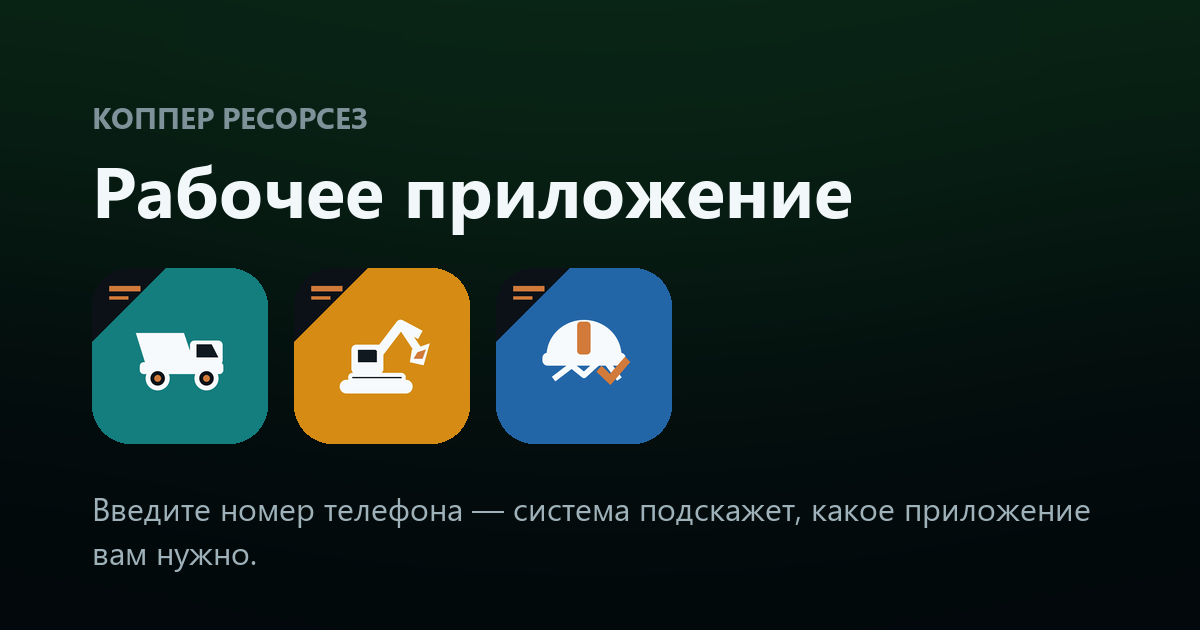
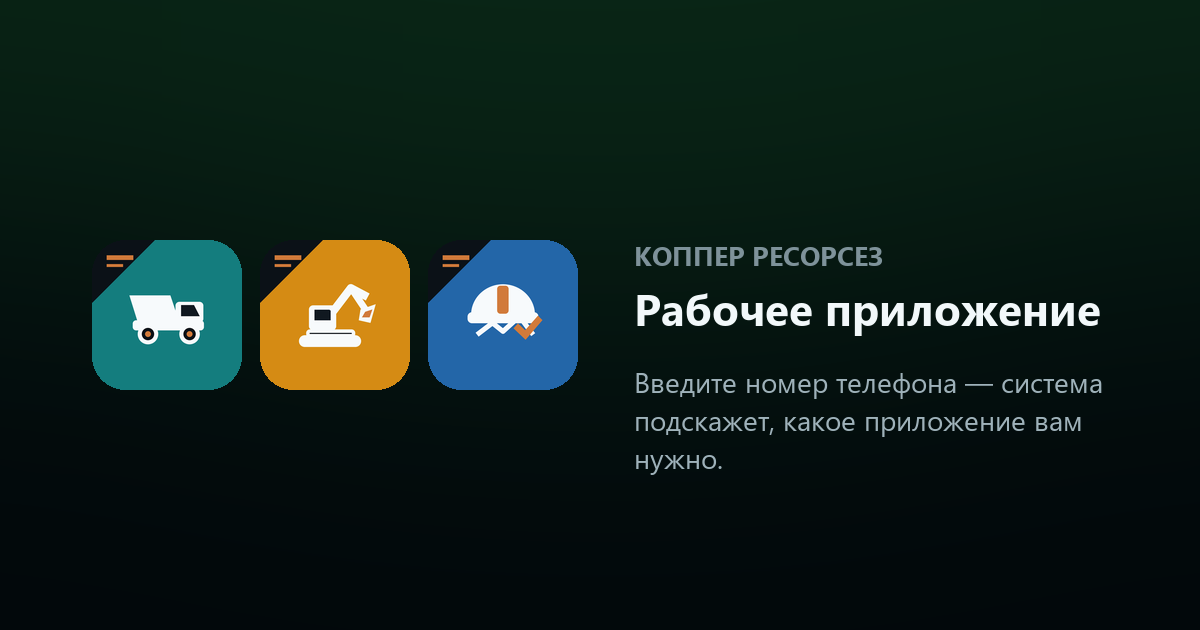
Карточка общей ссылки: содержимое в среднюю полосу
MAX обрезает превью по высоте: у раскладки сверху вниз срезало и марку
сверху, и подпись снизу. Переложили как на карточках ролей — значки слева,
текст справа, всё по вертикали в середине. При обрезке уцелевает целиком.

diff --git a/СИСТЕМА_MVP/backend/tools/generate_share_cards.py b/СИСТЕМА_MVP/backend/tools/generate_share_cards.py
@@ -170,32 +170,37 @@ def build_card(card: dict) -> Path:
 
 
 def build_start_card(card: dict) -> Path:
-    """Раскладка сверху вниз: марка, заголовок, значки, подпись.
+    """Значки слева, текст справа — и всё по вертикали в середине.
 
-    Значки ставим ниже заголовка фиксированно — при вычислении «по центру»
-    заголовок налезал на них.
+    Мессенджер обрезает картинку сверху и снизу, поэтому раскладка сверху вниз
+    не годилась: срезало и марку, и подпись. В центральной полосе уцелевает всё.
     """
     accent = card['accent']
     image = glow_layer(accent)
     draw = ImageDraw.Draw(image)
 
-    text_x = 92
-    limit = WIDTH - text_x - 92
-    draw.text((text_x, 96), COMPANY, font=pick_font(FONT_CANDIDATES_BOLD, 30), fill=(126, 146, 154))
-    draw.text((text_x, 140), card['title'], font=fit_font(draw, card['title'], limit, 72), fill=(242, 248, 250))
-
-    size = 176
-    gap = 26
-    x, y = text_x, 268
+    size = 150
+    gap = 18
+    icons_x = 92
+    icons_width = len(card['icons']) * size + (len(card['icons']) - 1) * gap
+    icons_y = (HEIGHT - size) // 2
+    x = icons_x
     for name in card['icons']:
         icon_path = ICON_DIR / name
         if not icon_path.exists():
             raise SystemExit(f'Нет значка {icon_path}')
         icon = rounded(Image.open(icon_path).convert('RGBA').resize((size, size), Image.LANCZOS))
-        image.paste(icon, (x, y), icon)
+        image.paste(icon, (x, icons_y), icon)
         x += size + gap
 
-    lead_font = pick_font(FONT_CANDIDATES_REGULAR, 32)
+    text_x = icons_x + icons_width + 56
+    limit = WIDTH - text_x - 80
+    title_font = fit_font(draw, card['title'], limit, 62)
+    lead_font = pick_font(FONT_CANDIDATES_REGULAR, 28)
+
+    draw.text((text_x, 236), COMPANY, font=pick_font(FONT_CANDIDATES_BOLD, 27), fill=(126, 146, 154))
+    draw.text((text_x, 278), card['title'], font=title_font, fill=(242, 248, 250))
+
     words = card['lead'].split(' ')
     line, lines = '', []
     for word in words:
@@ -207,8 +212,8 @@ def build_start_card(card: dict) -> Path:
             line = probe
     if line:
         lines.append(line)
-    for index, text in enumerate(lines[:2]):
-        draw.text((text_x, 486 + index * 44), text, font=lead_font, fill=(159, 178, 186))
+    for index, text in enumerate(lines[:3]):
+        draw.text((text_x, 362 + index * 38), text, font=lead_font, fill=(159, 178, 186))
 
     OUT_DIR.mkdir(parents=True, exist_ok=True)
     out_path = OUT_DIR / f"{card['slug']}-share.png"
